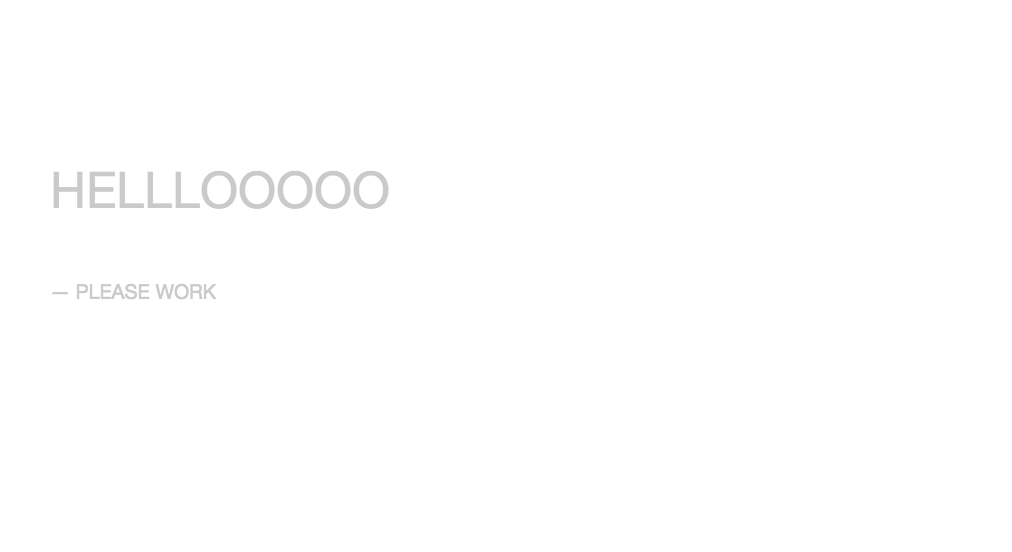
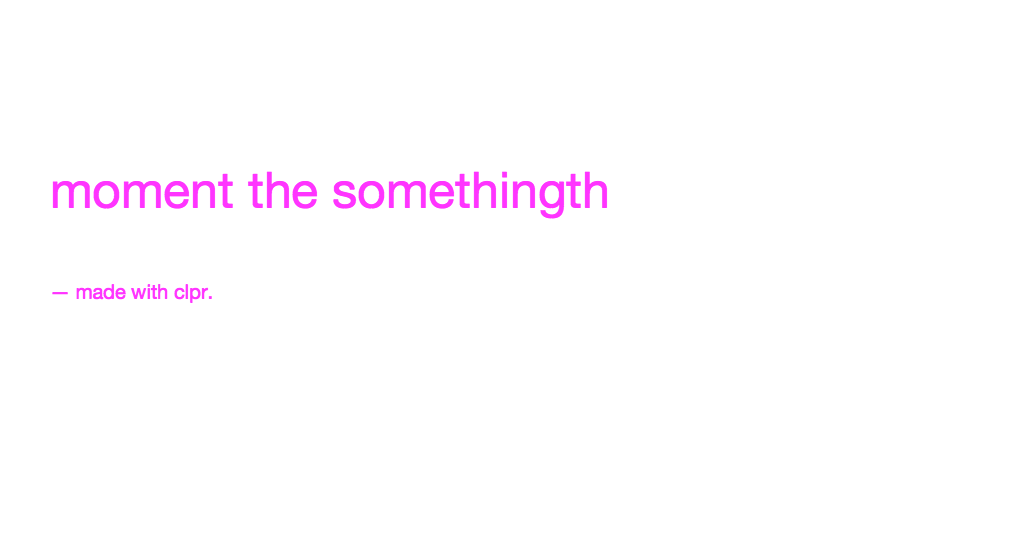
timing audio

Changed region(s): [[0.0306, 0.308, 0.6126, 0.4004], [0.0613, 0.4928, 0.2144, 0.5543]]

diff --git a/index.html b/index.html
@@ -125,10 +125,10 @@
           <h3>Tweet text:</h3>
           <textarea class="tweet-text" type="text" name="message">Check this out!  (Caution may make you smarter.)</textarea>
           <h3>Embed text:</h3>
-          <textarea class="video-text" type="text"></textarea>
-          <textarea style="display:none;" type="text" class="start-time"></textarea>
-          <textarea style="display:none;" type="text" class="end-time"></textarea>
-          <input class="p-submit" type="submit" text="tweet">
+          <textarea class="video-text" type="text" name="quote"></textarea>
+          <textarea style="display:none;" type="text" class="start-time" name="start-time"></textarea>
+          <textarea style="display:none;" type="text" class="end-time" name="end-time"></textarea>
+          <input class="p-submit" type="submit" tex="tweet">
         </form>
       </div>
     </section>

diff --git a/app.rb b/app.rb
@@ -16,15 +16,19 @@ class HelloWorldApp < Sinatra::Base
   end
 
   post '/tweet' do
-    `phantomjs public/javascripts/capture.js 'HELLLOOOOO' 'PLEASE WORK' `
+    `phantomjs public/javascripts/capture.js '#{params["quote"]}' 'made with clpr.' '#ff00ff'`
 
     `ffmpeg -i public/media/bg.mov -i public/media/fore.png \
-    -y -r 30 -filter_complex "[0:v][1:v] overlay=225:225:enable='between(t,0,20)'" \
+    -y -r 30 -filter_complex "[0:v][1:v] overlay=0:0:enable='between(t,0,20)'" \
     -pix_fmt yuv420p -c:a copy \
     public/media/output.mp4`
 
-    `ffmpeg -i public/media/output.mp4 -i public/media/cookie-sample.mp3 -ss 0 -t 29 -shortest \
-    -y -c:v copy -c:a aac -strict experimental public/media/out.mp4`
+    # `ffmpeg -i public/media/output.mp4 -i public/media/cookie-sample.mp3 -ss 0 -t 29 -shortest \
+    # -y -c:v copy -c:a aac -strict experimental public/media/out.mp4`
+    length = (params["end-time"].to_f - params["start-time"].to_f).to_i
+
+    `ffmpeg -i public/media/output.mp4 -ss #{params["start-time"].to_i} -t #{length} -i public/media/cookie-sample.mp3\
+    -shortest -y -c:v copy -c:a aac -strict experimental public/media/out.mp4`
 
     # Tweet It
     file = File.new("public/media/out.mp4")
@@ -32,7 +36,7 @@ class HelloWorldApp < Sinatra::Base
 
     `twurl -H upload.twitter.com "/1.1/media/upload.json" -d "command=APPEND&media_id=#{media_id}&segment_index=0" --file #{file.path} --file-field "media"`
     `twurl -H upload.twitter.com "/1.1/media/upload.json" -d "command=FINALIZE&media_id=#{media_id}"`
-    `twurl "/1.1/statuses/update.json" -d "media_ids=#{media_id}&status=#{params[:message]}"`
+    `twurl "/1.1/statuses/update.json" -d "media_ids=#{media_id}&status=#{params["message"]}"`
     send_file 'finished.html'
   end
 
